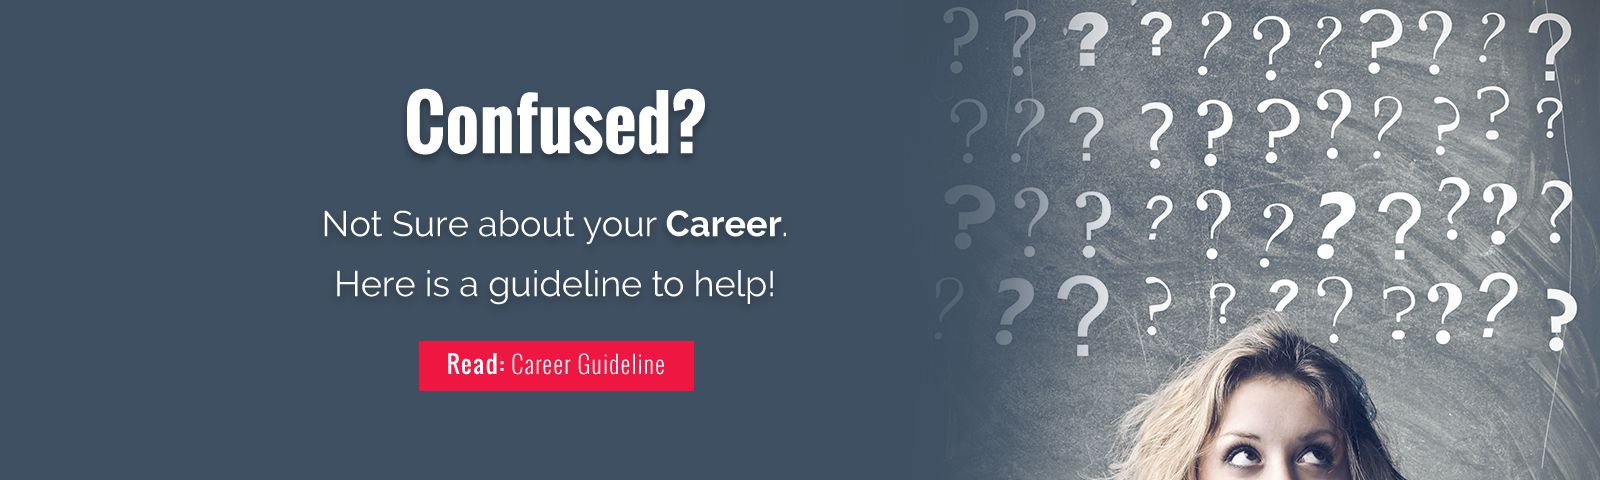
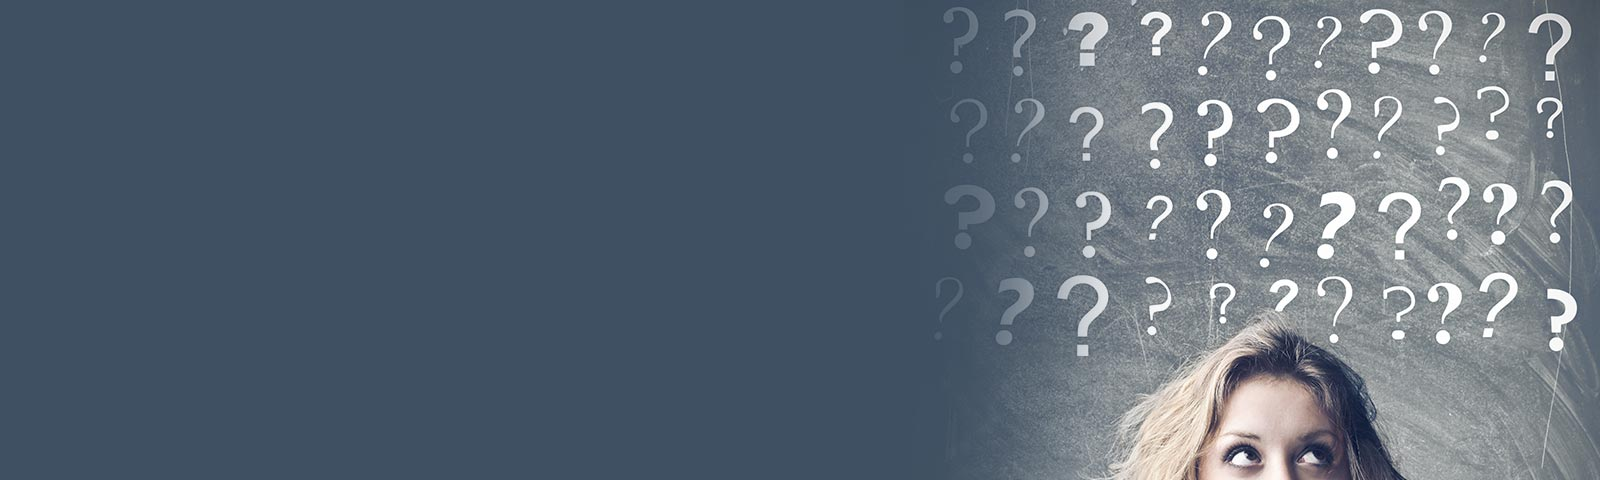
Added Career Guideline

diff --git a/index.html b/index.html
@@ -127,7 +127,7 @@
                         <div class="course-img"><img class="img-responsive" src="images/Linux.png" alt=""></div>
                         <p class="head">Fundamental of Linux</p>
                         <p>Installation, Uses, controlling and security</p>
-                        <p class="head">Fundamental of Linux</p>
+                        <p class="head">Who is this course for</p>
                         <p>Installation, Uses, controlling and security</p>
                         <p class="head">Fundamental of Linux</p>
                         <p>Installation, Uses, controlling and security</p>

diff --git a/css/main.css b/css/main.css
@@ -221,3 +221,13 @@ TODO: fix the color in the li.active }
     background-color: #00456e;
     box-shadow: none;
 }
+
+#ad-career {
+    margin: 90px auto;
+    background: rgba(63, 80, 98, 1);
+    background-image: url(../images/career_guideline.jpg);
+    background-position: right top;
+    background-repeat: no-repeat;
+    background-size: contain;
+    height: 480px
+}
